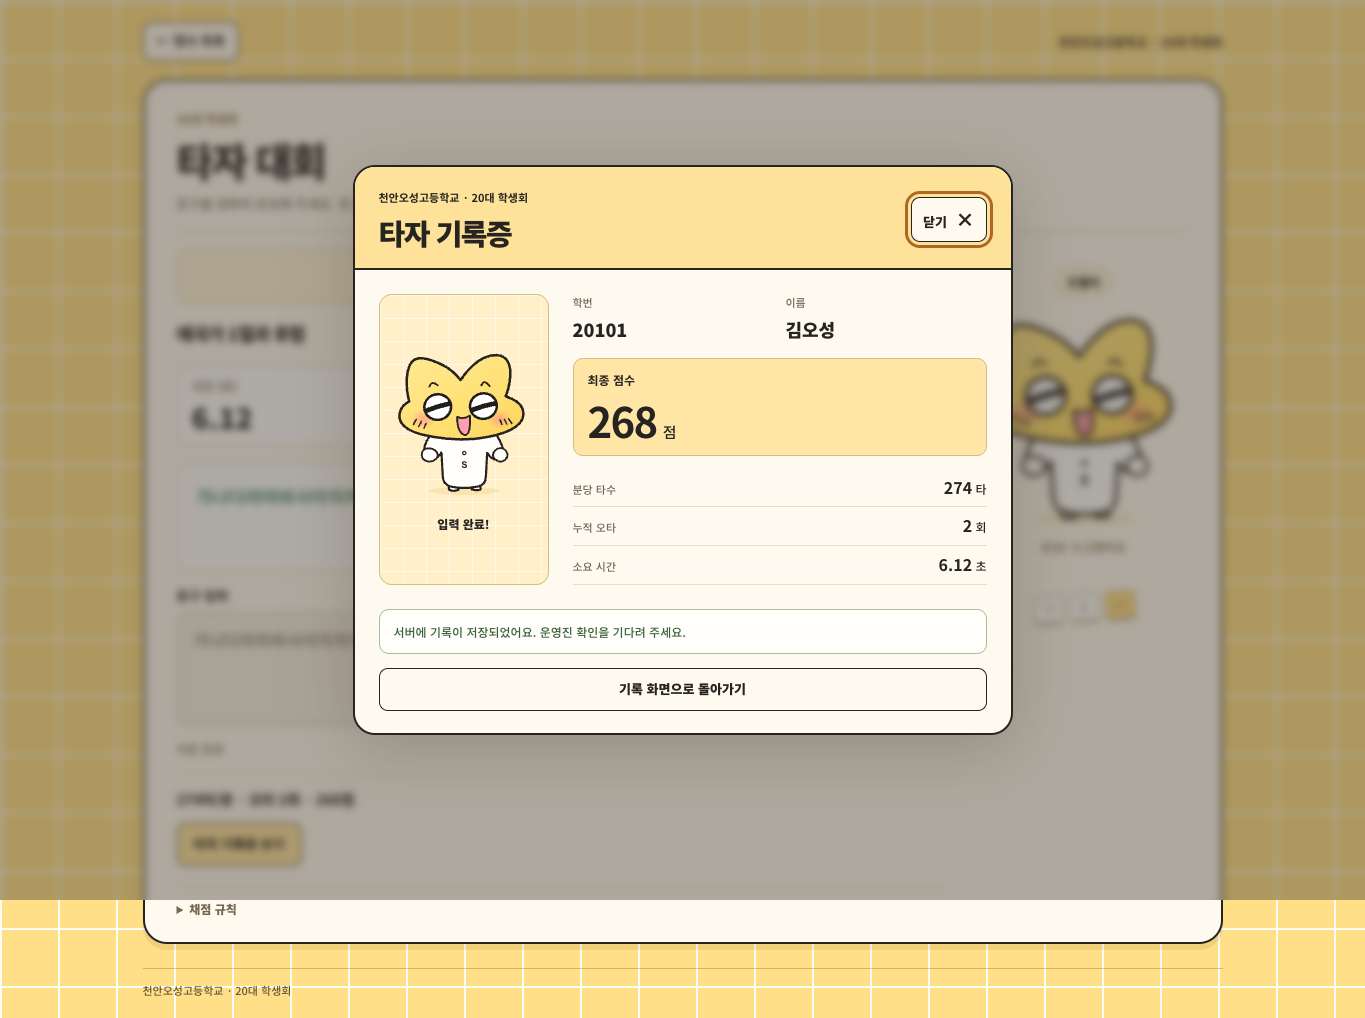
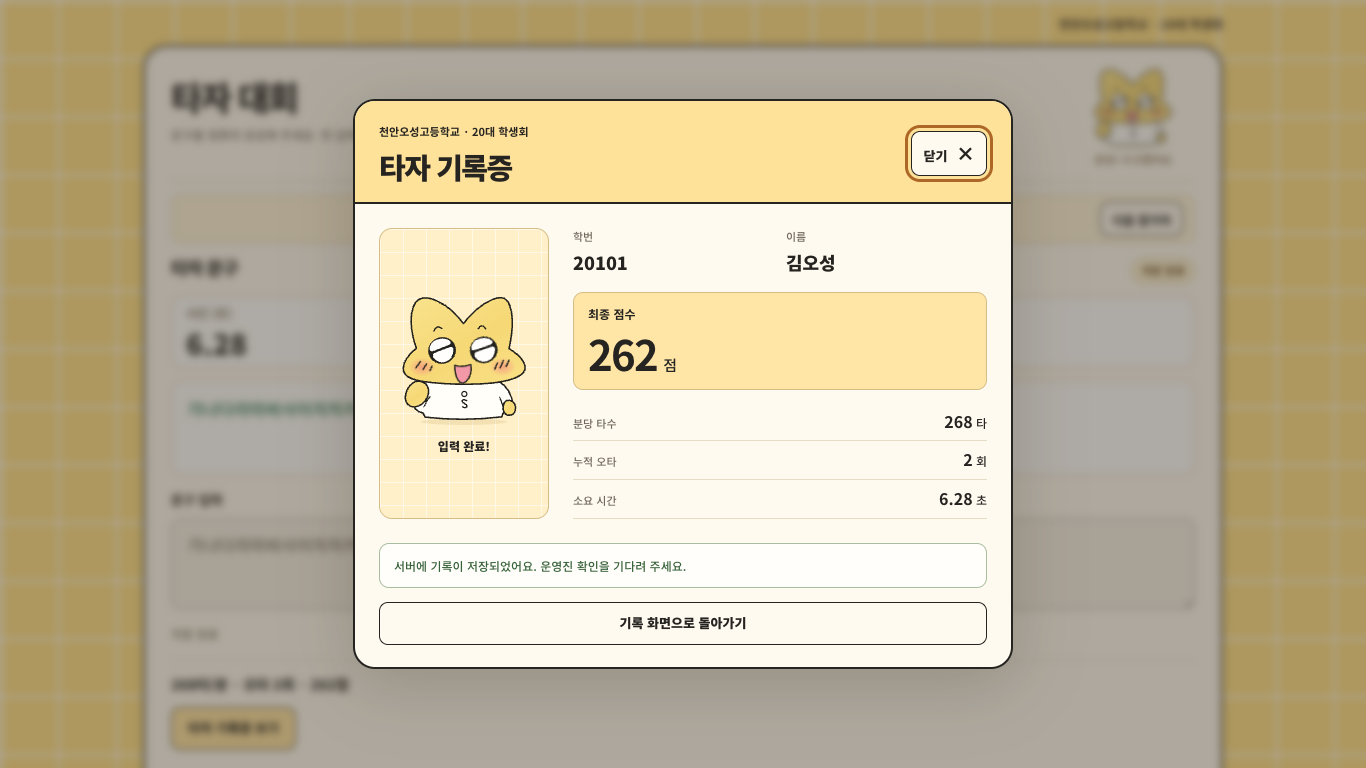
Redraw Obyeol from reference and center a narrower login card

diff --git a/typing/obyeol.js b/typing/obyeol.js
@@ -1,36 +1,59 @@
-// Art derived from the supplied V5 assets/obyeol.svg; parts share one connected body.
-const artwork = `<svg xmlns="http://www.w3.org/2000/svg" viewBox="0 0 460 510" role="img" aria-label="학교 마스코트 오별이">
+// Redrawn from the first supplied Obyeol reference. Keep in sync with assets/obyeol.svg.
+const artwork = `<svg xmlns="http://www.w3.org/2000/svg" viewBox="0 0 460 440" role="img" aria-label="학교 마스코트 오별이">
   <defs>
-    <radialGradient id="__ID__-cheek"><stop stop-color="#ff8b92" stop-opacity=".65" /><stop offset="1" stop-color="#ff8b92" stop-opacity="0" /></radialGradient>
-    <linearGradient id="__ID__-head" x1="0" y1="0" x2=".85" y2="1"><stop stop-color="#ffe993" /><stop offset=".7" stop-color="#ffdf70" /><stop offset="1" stop-color="#ffd45f" /></linearGradient>
+    <linearGradient id="__ID__-head" x1="0" y1="0" x2=".85" y2="1">
+      <stop stop-color="#f9e38e"/>
+      <stop offset=".58" stop-color="#f6d875"/>
+      <stop offset="1" stop-color="#f9df83"/>
+    </linearGradient>
+    <radialGradient id="__ID__-cheek">
+      <stop stop-color="#f08880" stop-opacity=".68"/>
+      <stop offset=".55" stop-color="#f79a83" stop-opacity=".4"/>
+      <stop offset="1" stop-color="#f79a83" stop-opacity="0"/>
+    </radialGradient>
   </defs>
-
-  <ellipse cx="231" cy="463" rx="111" ry="13" fill="#e9b842" opacity=".21" class="ob-shadow" />
-
-  <g class="ob-float"><g class="ob-body"><path d="M186 430 Q179 444 182 459 Q192 466 212 460 L218 441 M252 442 L254 458 Q274 464 283 458 Q284 445 276 430" fill="#fffefb" stroke="#28231f" stroke-width="7" stroke-linecap="round" stroke-linejoin="round" />
-
-  <path d="M169 258 C145 260 122 276 110 305 Q96 335 109 355 Q121 371 140 360 Q149 354 158 340 L162 413 Q162 443 188 449 Q228 459 274 449 Q299 445 300 416 L304 341 Q313 357 326 362 Q342 368 353 350 Q361 335 344 301 C329 273 309 257 284 258 C250 255 205 255 169 258Z" fill="#fffefa" stroke="#28231f" stroke-width="7" stroke-linecap="round" stroke-linejoin="round" />
-  <g class="ob-hand ob-hand-left"><path d="M115 334 Q100 336 98 350 Q96 368 112 374 Q133 380 147 360 Q153 349 143 339 Q131 329 115 334Z" fill="#fffefa" stroke="#28231f" stroke-width="6" />
-  </g><g class="ob-hand ob-hand-right"><path d="M340 332 Q357 330 364 345 Q371 363 354 373 Q338 381 324 364 Q314 351 325 340 Q331 334 340 332Z" fill="#fffefa" stroke="#28231f" stroke-width="6" />
-
-  </g><circle cx="231" cy="342" r="5" fill="none" stroke="#28231f" stroke-width="4" />
-  <text x="231" y="390" font-family="Arial,sans-serif" text-anchor="middle" font-size="30" font-weight="800" fill="#28231f">S</text>
-
-  <g class="ob-head"><path d="M55 177 C44 141 42 76 63 51 C83 27 124 44 154 57 C183 70 203 88 219 109 C243 72 286 27 334 29 C370 30 384 64 376 112 C373 135 368 149 363 161 C397 172 420 188 420 217 C420 254 371 279 303 291 C238 305 158 298 92 282 C44 269 20 246 24 218 C27 196 39 186 55 177Z" fill="url(#__ID__-head)" stroke="#28231f" stroke-width="8" stroke-linecap="round" stroke-linejoin="round" />
-  <ellipse cx="100" cy="234" rx="41" ry="32" fill="url(#__ID__-cheek)" />
-  <ellipse cx="343" cy="234" rx="41" ry="32" fill="url(#__ID__-cheek)" />
-  <path d="M119 130 Q127 108 146 126 M285 126 Q294 104 312 128" fill="none" stroke="#28231f" stroke-width="6" stroke-linecap="round" class="ob-brows" />
-  <g class="ob-eye ob-eye-left"><g transform="rotate(-12 146 195)">
-    <ellipse cx="146" cy="195" rx="43" ry="41" fill="#fff" stroke="#201d1a" stroke-width="8" />
-    <path d="M109 199 Q142 192 184 192" fill="none" stroke="#201d1a" stroke-width="15" stroke-linecap="round" />
+  <ellipse class="ob-shadow" cx="230" cy="418" rx="137" ry="10" fill="#bc913f" opacity=".16"/>
+  <g class="ob-float">
+    <g class="ob-body" stroke="#23221c" stroke-linecap="round" stroke-linejoin="round">
+      <!-- Broad shoulders sit behind the face; this is the reference's short upper body. -->
+      <path d="M128 279 C100 284 79 309 70 339 C61 366 73 384 99 390 L106 403 Q227 417 351 402 L355 390 C379 386 392 369 382 341 C372 309 349 288 322 281Z" fill="#fffef9" stroke-width="5"/>
+      <path d="M122 337 Q109 351 102 370 M344 339 Q351 355 356 372" fill="none" stroke-width="4"/>
+      <circle cx="231" cy="329" r="8" fill="#fffef9" stroke-width="4"/>
+      <path d="M238 350 C225 341 218 354 231 359 C247 365 238 379 225 370" fill="none" stroke-width="4.5"/>
+      <g class="ob-hand ob-hand-left">
+        <path d="M97 294 C72 286 50 315 52 344 C51 367 69 383 89 377 C115 369 129 335 119 312 C114 301 106 295 97 294Z" fill="url(#__ID__-head)" stroke-width="5"/>
+      </g>
+      <g class="ob-hand ob-hand-right">
+        <path d="M367 354 C382 353 394 365 391 382 C388 399 375 407 360 400 C347 393 349 372 358 361 Q362 356 367 354Z" fill="url(#__ID__-head)" stroke-width="5"/>
+      </g>
+      <g class="ob-head">
+        <path d="M78 183 C65 149 53 91 68 51 C79 18 111 15 144 32 C181 48 208 77 228 104 C253 72 285 42 319 28 C346 16 367 19 376 46 C391 86 383 142 374 184 C399 199 422 220 425 241 C430 270 383 287 321 294 C251 301 157 298 99 289 C60 283 34 271 36 246 C37 222 57 200 78 183Z" fill="url(#__ID__-head)" stroke-width="5"/>
+        <ellipse cx="96" cy="243" rx="43" ry="30" fill="url(#__ID__-cheek)" stroke="none"/>
+        <ellipse cx="353" cy="242" rx="43" ry="30" fill="url(#__ID__-cheek)" stroke="none"/>
+        <path class="ob-brows" d="M134 128 Q142 106 160 120 M275 121 Q286 101 300 121" fill="none" stroke-width="4.5"/>
+        <g class="ob-eye ob-eye-left">
+          <g transform="rotate(-17 160 190)">
+            <ellipse cx="160" cy="190" rx="44" ry="42" fill="#23221c" stroke-width="1"/>
+            <path d="M123 177 C124 161 140 152 157 152 C174 152 187 158 193 169 C197 176 188 180 180 180 L139 183 C129 184 122 183 123 177Z" fill="#fffefc" stroke="none"/>
+            <path d="M129 198 C126 193 132 190 140 190 L184 187 C193 186 198 190 195 199 C190 217 175 228 159 228 C144 228 132 218 127 205 Q124 201 129 198Z" fill="#fffefc" stroke="none"/>
+          </g>
+        </g>
+        <g class="ob-eye ob-eye-right">
+          <g transform="rotate(-15 293 188)">
+            <ellipse cx="293" cy="188" rx="44" ry="42" fill="#23221c" stroke-width="1"/>
+            <path d="M256 175 C257 159 273 150 290 150 C307 150 320 156 326 167 C330 174 321 178 313 178 L272 181 C262 182 255 181 256 175Z" fill="#fffefc" stroke="none"/>
+            <path d="M262 196 C259 191 265 188 273 188 L317 185 C326 184 331 188 328 197 C323 215 308 226 292 226 C277 226 265 216 260 203 Q257 199 262 196Z" fill="#fffefc" stroke="none"/>
+          </g>
+        </g>
+        <path class="ob-mouth ob-mouth-smile" d="M200 238 Q225 245 252 235 C257 263 244 291 226 295 C209 293 201 269 200 238Z" fill="#f398a6" stroke-width="4.5"/>
+        <path d="M91 225 L76 246 M111 232 L99 251 M128 240 L121 255 M337 230 L328 250 M356 222 L345 246 M374 221 L364 242" fill="none" stroke-width="4.5"/>
+        <ellipse class="ob-mouth ob-mouth-surprise" cx="226" cy="264" rx="16" ry="21" fill="#f398a6" stroke-width="4.5" opacity="0"/>
+        <path class="ob-mouth ob-mouth-pout" d="M208 267 Q226 255 245 266" fill="none" stroke-width="4.5" opacity="0"/>
+        <path class="ob-angry-brows" d="M132 121 L169 134 M270 133 L308 119" fill="none" stroke-width="4.5" opacity="0"/>
+      </g>
+    </g>
   </g>
-  </g><g class="ob-eye ob-eye-right"><g transform="rotate(-10 292 192)">
-    <ellipse cx="292" cy="192" rx="43" ry="41" fill="#fff" stroke="#201d1a" stroke-width="8" />
-    <path d="M255 198 Q290 190 331 190" fill="none" stroke="#201d1a" stroke-width="15" stroke-linecap="round" />
-  </g>
-  </g><path d="M208 226 Q227 237 249 222 L249 251 C249 281 236 292 223 280 C211 269 208 248 208 226Z" fill="#ff9db1" stroke="#28231f" stroke-width="6" stroke-linejoin="round" class="ob-mouth ob-mouth-smile" />
-  <path d="M78 234 L68 251 M94 241 L85 258 M109 247 L102 263 M345 235 L351 251 M359 234 L367 250 M372 232 L383 248" stroke="#28231f" stroke-width="5" stroke-linecap="round" />
-<ellipse class="ob-mouth ob-mouth-surprise" cx="230" cy="251" rx="14" ry="19" fill="#ff9db1" stroke="#28231f" stroke-width="6" /><path class="ob-mouth ob-mouth-pout" d="M210 252 Q230 241 250 252" fill="none" stroke="#28231f" stroke-width="6" stroke-linecap="round" /><path class="ob-angry-brows" d="M116 131 L151 141 M280 139 L315 126" fill="none" stroke="#28231f" stroke-width="6" stroke-linecap="round" /></g></g></g></svg>`;
+</svg>`;
 let instance = 0;
 export function mountObyeol(container, caption) {
   container.innerHTML = artwork.replaceAll('__ID__', `obyeol-${++instance}`);

diff --git a/typing/style.css b/typing/style.css
@@ -1,13 +1,17 @@
 /* One shell keeps the title, participant and typing area aligned at every stage. */
 .typing-page .container { width: min(1080px, calc(100% - 48px)); padding: 22px 0 18px; }
 .typing-page .inside-nav { margin-bottom: 18px; }
-.typing-shell { display: grid; grid-template-columns: minmax(0, 1fr) 150px; gap: 0 24px; padding: 28px 32px 24px; background: var(--paper); border: 2px solid var(--ink); border-radius: 24px; box-shadow: 0 6px 0 #6b4b201a; }
+.typing-page:not(.has-participant) .container { width: min(660px, calc(100% - 48px)); min-height: 100vh; display: grid; grid-template-rows: 1fr auto 1fr; }
+.typing-page:not(.has-participant) .inside-nav { align-self: start; }
+.typing-page:not(.has-participant) .inside-footer { align-self: end; }
+.typing-shell { width: 100%; display: grid; grid-template-columns: minmax(0, 1fr) 124px; gap: 0 18px; padding: 25px 28px 22px; background: var(--paper); border: 2px solid var(--ink); border-radius: 24px; box-shadow: 0 6px 0 #6b4b201a; }
+.typing-page:not(.has-participant) .typing-shell { width: min(660px, 100%); justify-self: center; }
 .typing-heading { grid-column: 1; grid-row: 1; align-self: center; padding-bottom: 20px; }
 .typing-heading h1 { font-size: clamp(30px, 3.6vw, 40px); }
 .typing-heading > p:last-child { margin: 9px 0 0; font-size: 13px; color: var(--muted); }
 .typing-heading .intro-kicker { margin: 0 0 7px; }
 .typing-page #login { width: 100%; margin: 0; grid-column: 1 / -1; grid-row: 2; min-width: 0; border-top: 1px solid var(--line); padding-top: 20px; }
-.typing-page #login .login-panel { max-width: 440px; background: transparent; padding: 10px 0 14px; margin: 0 auto; border: 0; box-shadow: none; }
+.typing-page #login .login-panel { max-width: 380px; background: transparent; padding: 10px 0 14px; margin: 0 auto; border: 0; box-shadow: none; }
 .typing-page .login-panel h2 { font-size: 21px; margin-bottom: 18px; }
 .typing-page .login-panel button[type='submit'] { margin-top: 20px; }
 .typing-page #entry-form { display: block; }
@@ -50,19 +54,20 @@
 .typing-page .inside-footer { margin-top: 24px; padding: 13px 0 0; font-size: 11px; }
 /* Keep Obyeol with the title, above the login and typing controls. */
 .mascot-aside { grid-column: 2; grid-row: 1; align-self: center; justify-self: center; width: 126px; text-align: center; padding: 0 0 12px; min-width: 0; }
-.obyeol { width: 100%; aspect-ratio: 460 / 510; }
+.obyeol { width: 100%; aspect-ratio: 460 / 440; }
 .obyeol svg { display: block; width: 100%; height: 100%; overflow: visible; }
 .mascot-aside .obyeol { margin: 0; }
 .typing-page:not(.has-participant) #obyeol-message { display: none; }
 .has-participant .mascot-aside { width: 104px; padding-bottom: 10px; }
+.has-participant .typing-shell { max-width: 1080px; margin-inline: auto; }
 .has-participant #login { padding-top: 12px; }
 .has-participant #obyeol-message { min-height: 20px; font-size: 11px; line-height: 1.5; white-space: nowrap; margin-inline: -20px; }
 #obyeol-message { margin: 0; min-height: 42px; font-size: 12px; line-height: 1.6; color: #78613c; }
 /* Animate composite transforms, not layout. The face and shirt keep overlapping. */
-.ob-float { transform-origin: 230px 440px; animation: ob-float 4s ease-in-out infinite; }
-.ob-body { transform-origin: 230px 440px; }
-.ob-shadow { transform-origin: 231px 463px; animation: ob-shadow 4s ease-in-out infinite; }
-.ob-head { transform-origin: 230px 285px; transition: transform .35s cubic-bezier(.2,.8,.3,1); }
+.ob-float { transform-origin: 230px 405px; animation: ob-float 4s ease-in-out infinite; }
+.ob-body { transform-origin: 230px 405px; }
+.ob-shadow { transform-origin: 230px 418px; animation: ob-shadow 4s ease-in-out infinite; }
+.ob-head { transform-origin: 230px 294px; transition: transform .35s cubic-bezier(.2,.8,.3,1); }
 .ob-eye { transform-box: fill-box; transform-origin: center; animation: ob-blink 6.8s infinite; transition: transform .25s ease; }
 .ob-eye-right { animation-delay: .04s; }
 .ob-mouth { transform-box: fill-box; transform-origin: center; transition: opacity .18s, transform .25s cubic-bezier(.2,.8,.3,1); }
@@ -121,7 +126,9 @@
 @media (min-width: 761px) and (max-height: 800px) {
   .typing-page .container { padding-top: 14px; }
   .typing-page .inside-nav { margin-bottom: 12px; }
-  .typing-shell { padding: 18px 28px 15px; }
+  .typing-shell { padding: 18px 26px 15px; }
+  .typing-page:not(.has-participant) .container { padding-block: 14px; }
+  .typing-page:not(.has-participant) .typing-shell { align-self: center; }
   .typing-heading { padding-bottom: 14px; margin-bottom: 16px; }
   .typing-heading h1 { font-size: 34px; }
   .has-participant .typing-heading { padding-bottom: 10px; }

diff --git a/write/index.html b/write/index.html
@@ -13,7 +13,7 @@
     <div class="inside-nav"><span class="inside-brand">20대 학생회</span></div>
     <header class="page-header page-intro">
       <div class="page-intro-copy"><h1>글쓰기</h1><p>전하고 싶은 글을 작성해 주세요.<br />제출된 글은 검토 후 공개될 수 있습니다.</p></div>
-      <div class="page-mascot"><img src="../assets/obyeol.svg" alt="오별이" width="460" height="510" /></div>
+      <div class="page-mascot"><img src="../assets/obyeol.svg" alt="오별이" width="460" height="440" /></div>
     </header>
     <p id="event-status" role="status">접수 상태 확인 중</p>
     <button id="retry-event" type="button" hidden>다시 확인</button>

diff --git a/welcome/index.html b/welcome/index.html
@@ -13,7 +13,7 @@
     <div class="inside-nav"><span class="inside-brand">20대 학생회</span></div>
     <header class="page-header page-intro">
       <div class="page-intro-copy"><h1>공개 글</h1><p>공개된 글을 확인할 수 있습니다.</p></div>
-      <div class="page-mascot"><img src="../assets/obyeol.svg" alt="오별이" width="460" height="510" /></div>
+      <div class="page-mascot"><img src="../assets/obyeol.svg" alt="오별이" width="460" height="440" /></div>
     </header>
     <div class="section-top list-actions"><h2>글 목록</h2><button id="refresh" type="button">새로고침</button></div>
     <p id="source-info" class="muted" hidden></p>

diff --git a/index.html b/index.html
@@ -24,7 +24,7 @@
           <h1 id="home-title">학생회 <span>행사</span></h1>
           <p class="home-intro">참여할 행사를 선택해 주세요.</p>
         </div>
-        <div class="home-mascot"><img src="./assets/obyeol.svg" alt="오별이" width="460" height="510" /></div>
+        <div class="home-mascot"><img src="./assets/obyeol.svg" alt="오별이" width="460" height="440" /></div>
       </section>
       <section class="home-events" aria-label="행사 메뉴">
         <a href="./typing/" class="event-card event-card--typing">

diff --git a/docs/v6/reference-redraw.md b/docs/v6/reference-redraw.md
@@ -1,0 +1,36 @@
+# 오별이 재작화와 로그인 배치 수정
+
+2026-11-16 후속 요청을 반영했다. 브랜치는 `design/obyeol-retro-grid`다.
+
+## 변경
+
+- 첫 번째 첨부 사진을 기준으로 SVG를 다시 그렸다. 깊게 파인 별 얼굴, 기울어진 큰 검정 눈과 둥근 흰 부분, 넓은 웃는 입, 노란 손과 짧고 넓은 흰 상체 비율을 반영했다.
+- 머리·몸통·손·눈·입의 그룹과 입력 반응을 유지했다. 새 그림에 맞춰 기준 좌표와 가로세로 비율을 조정했다.
+- 정적 `assets/obyeol.svg`와 동적 `typing/obyeol.js`에 같은 그림을 적용했다. 랜딩·글쓰기·공개 글 이미지의 크기 속성도 새 비율에 맞췄다.
+- 로그인 외곽 카드를 1080px에서 660px로, 입력 폼을 440px에서 380px로 줄였다. 학번·이름·로그인 버튼의 세로 배치를 유지하고 화면 중앙에 배치했다. 상단 학교 표기와 하단 선도 카드 너비에 맞췄다.
+- 로그인 후에는 진행 화면에 필요한 넓은 카드로 전환한다. 오별이 이름표와 행사 목록 버튼은 제거된 상태를 유지한다.
+
+## 데스크톱 검증
+
+이번 후속 작업에서는 사용자의 요청에 따라 모바일 테스트를 실행하지 않았다.
+
+| 화면 | 외곽 카드 | 세로 중심 오차 | 입력칸 너비 | 결과 |
+| --- | --- | --- | --- | --- |
+| 1366×768 | 660px, 위 140px~아래 628px | 1px 미만 | 380px | 세로 배치, 가로 넘침 없음 |
+| 1710×1060 | 660px, 위 281px~아래 783px | 약 2px | 380px | 세로 배치, 가로 넘침 없음 |
+
+Chrome에서 실제 앱·입력 엔진·채점·IndexedDB를 사용하고 Firebase 제출 경계만 모의 응답으로 대체하여 대기→집중→오타→연속 오타→정확한 입력 복귀→연속 정답→완료를 확인했다. 새 입 모양의 전환, 기록증의 새 오별이, 저장 성공 표시, Escape 후 포커스 복귀를 확인했다. 누적 오타 2회일 때 기존 점수에서 6점이 감점되는 것도 확인했다.
+
+모의 응답 없는 실제 Firebase 문구 조회와 입력 준비 상태도 확인했다. 실제 서버 기록은 생성하지 않았다. `typing/app.js`, 엔진·채점·저장·기록증·로그인 JS, Firebase·관리자 파일은 이번 수정에서 변경하지 않았다. SVG XML 파싱, JS 구문 검사, Git 공백 검사를 통과했다.
+
+## 검수 화면
+
+![폭을 줄이고 화면 중앙에 배치한 로그인](login-desktop.png)
+
+![첫 번째 사진을 기준으로 다시 그린 오별이의 입력 반응](obyeol-expressions.png)
+
+![새 오별이가 적용된 진행 화면](typing-desktop.png)
+
+![새 오별이가 적용된 기록증](record-desktop.png)
+
+데스크톱 전용 회귀 검사는 로컬 서버를 실행한 뒤 `node tests/typing-redraw-desktop.cjs`로 재실행할 수 있다. Playwright와 Google Chrome이 필요하며, 캡처는 기본 `/tmp/oshs-v6-redraw`에 저장한다.

diff --git a/docs/v6/verification.md b/docs/v6/verification.md
@@ -1,5 +1,7 @@
 # 타자 대회 V6 구현·검증 기록
 
+후속 디자인 수정과 데스크톱 검증은 [오별이 재작화·로그인 배치 수정](reference-redraw.md)에 정리했다. 아래 모바일 검증은 최초 V6 작업 당시의 기록이다.
+
 검수일: 2026-11-16 (한국 시간). 작업 브랜치: `design/obyeol-retro-grid`.
 
 ## 화면과 입력 반응
